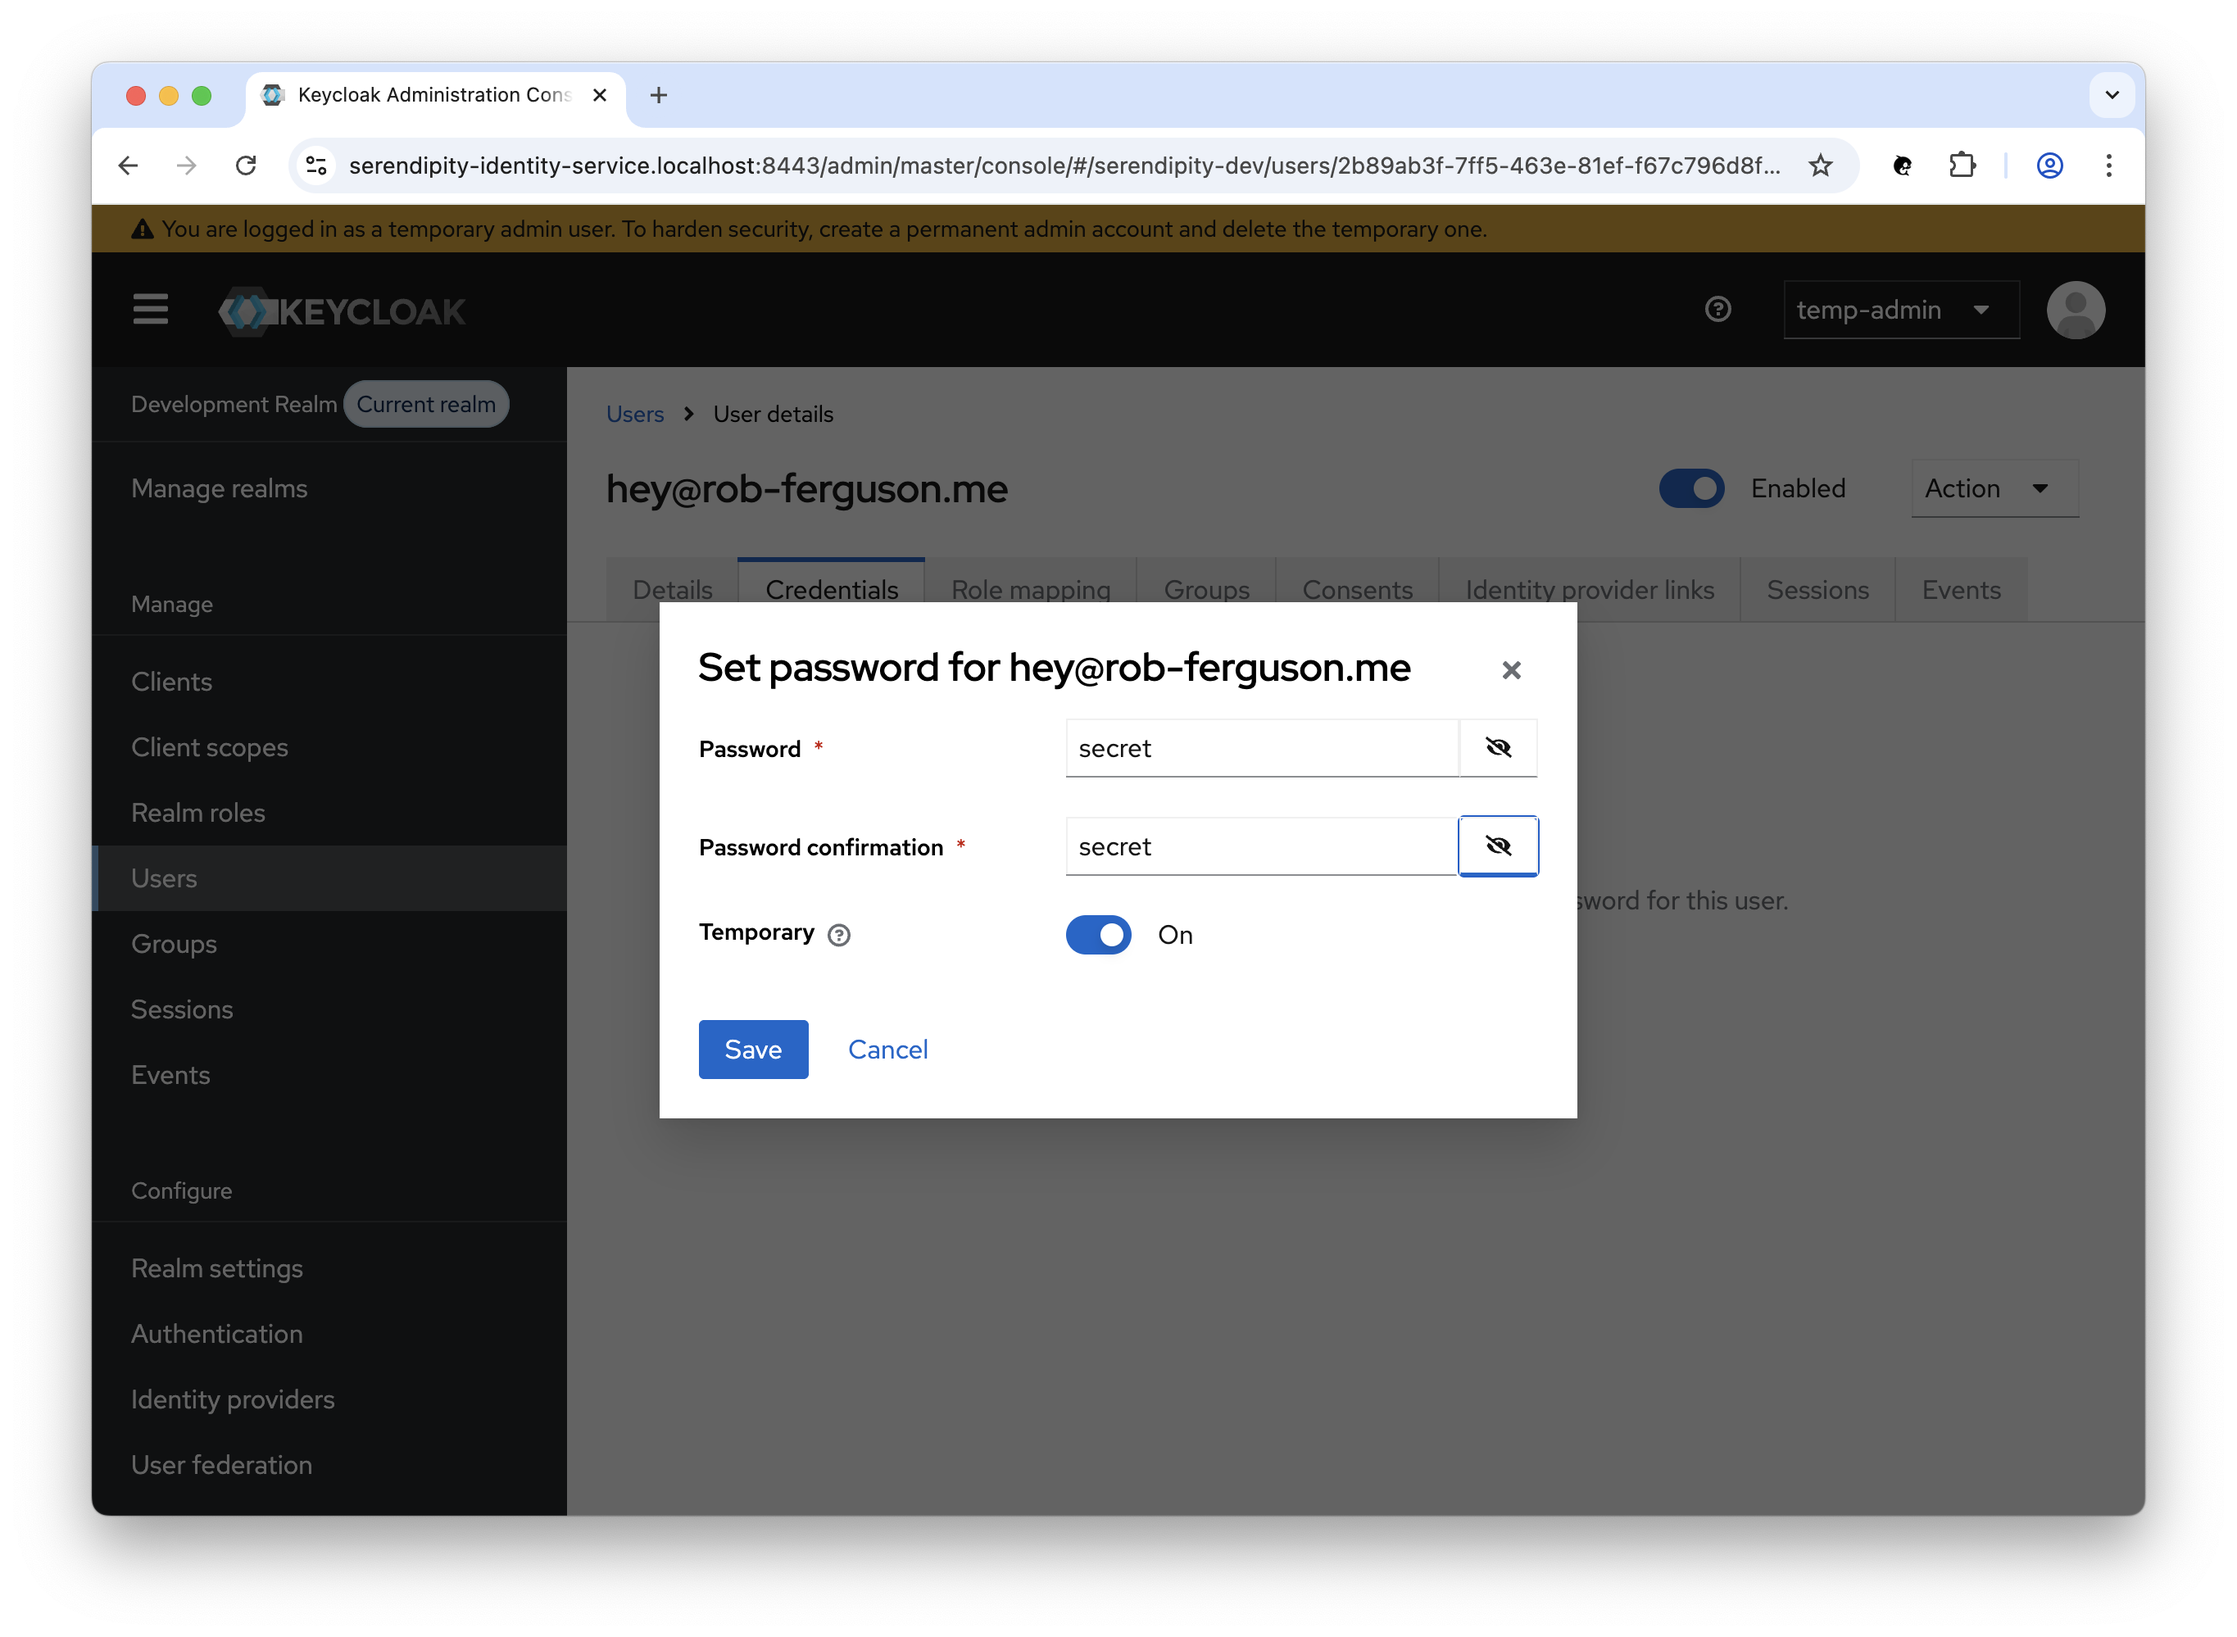
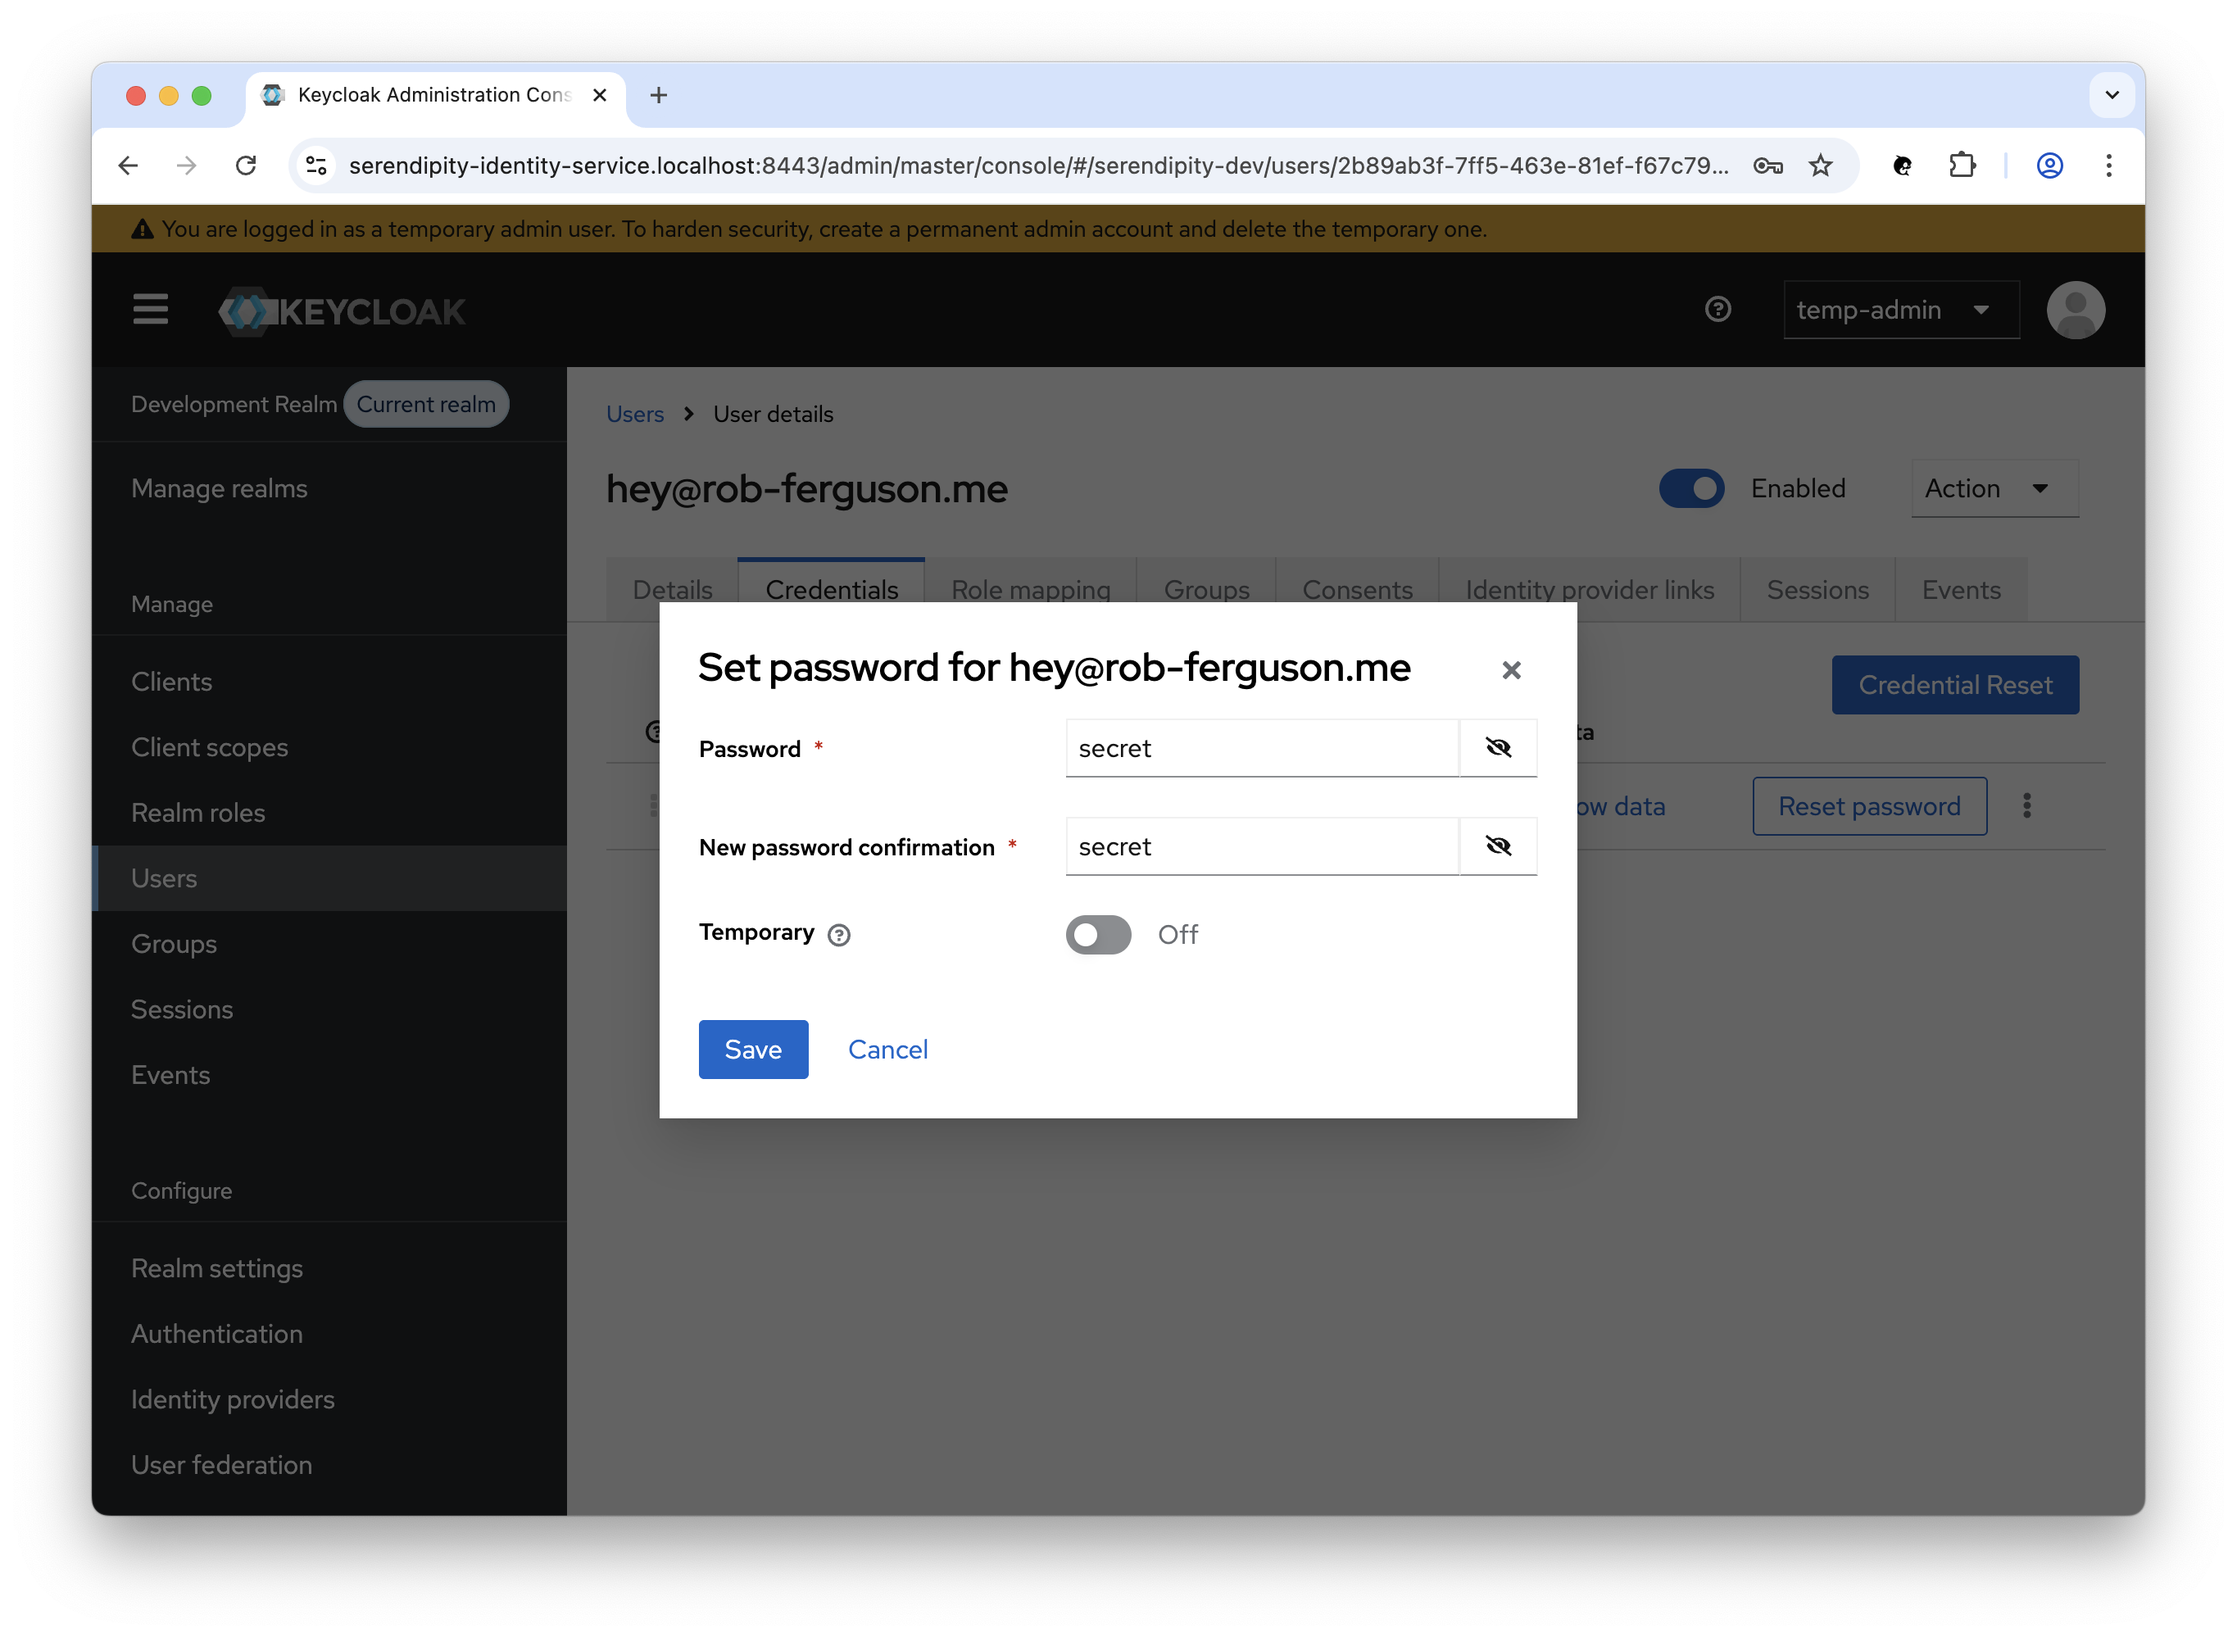
Updated the Keycloak README.md

diff --git a/docs/administrator/keycloak/README.md b/docs/administrator/keycloak/README.md
@@ -2,7 +2,7 @@
 
 ## ❯ Keycloak
 
-### Getting Started
+### Keycloak Admin Console
 
 Navigate to the Keycloak Admin Console:
 
@@ -66,12 +66,42 @@ To create a password, select the 'Credentials' tab and then click the 'Set passw
   <img src="./keycloak-set-password.png" alt="Keycloak Admin Console Set Password"/>
 </p>
 
-Enter a password and confirm the password, enable the 'Temporary' slide toggle (so that the user does not need to 
+Enter a password, confirm the password and disable the 'Temporary' slide toggle (so that the user does not need to 
 update the password the first time they sign in) and then click the 'Save' button.
+
+Navigate to the Keycloak Account Console:
+
+```
+https://serendipity-identity-service.localhost:8443/realms/serendipity-dev/account
+```
+
+And sign in using the credentials you created:
+
+<p align="center">
+  <img src="./keycloak-account-console-sign-in.png" alt="Keycloak Account Console Sign In"/>
+</p>
+
+You should see something like:
+
+<p align="center">
+  <img src="./keycloak-account-console-personal-info.png" alt="Keycloak Account Console Personal Info"/>
+</p>
 
 #### Create a Client
 
-...
+Verify that you are in the correct realm (e.g., the `serendipity-dev` realm).
+
+To create a new client, select 'Clients' in the sidemenu and then click the 'Create client' button:
+
+<p align="center">
+  <img src="./keycloak-create-user.png" alt="Keycloak Admin Console Create User"/>
+</p>
+
+
+
+
+
+
 
 ### Permanent Admin Account
 
